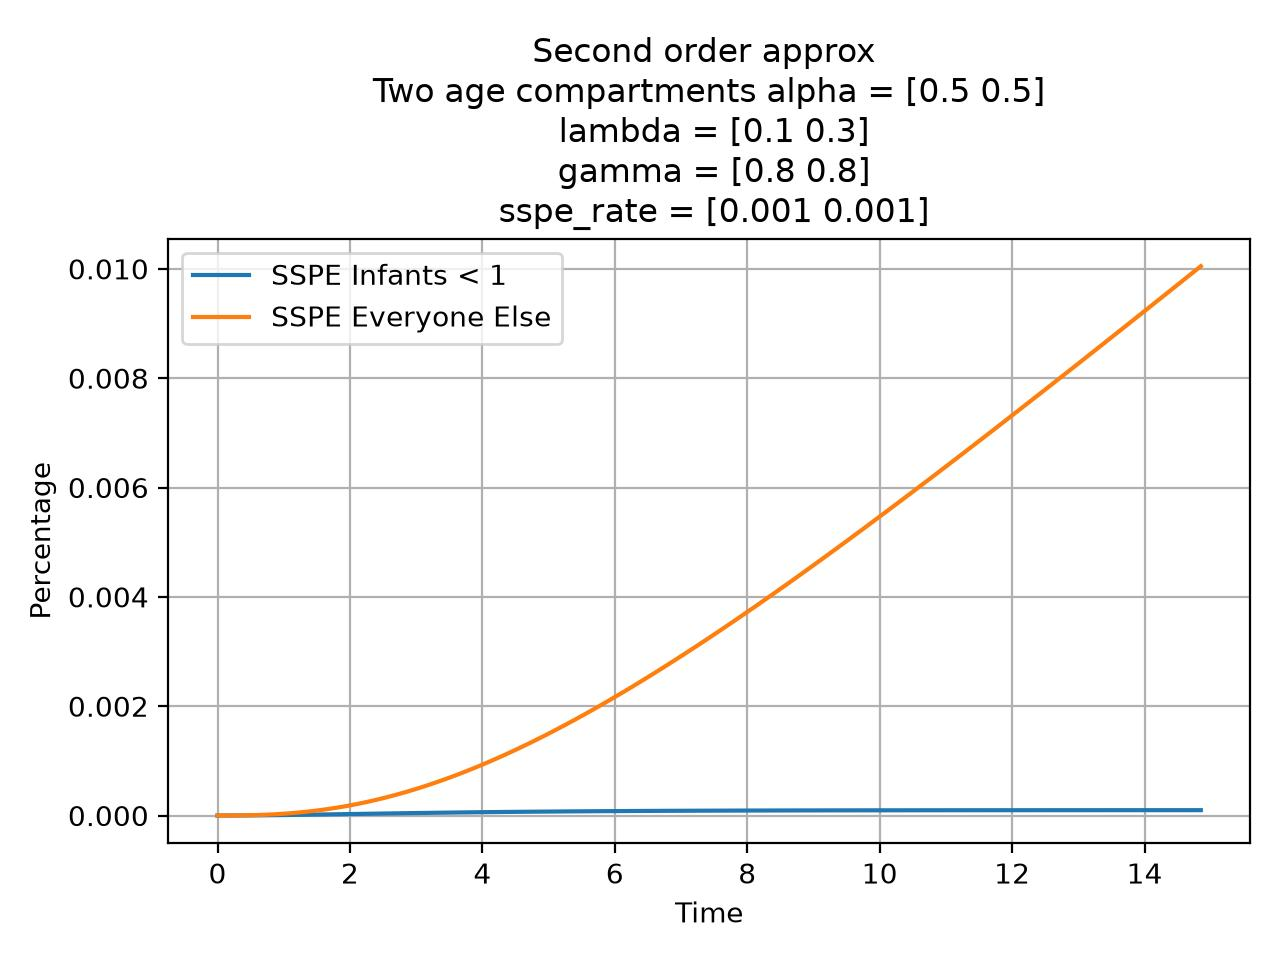
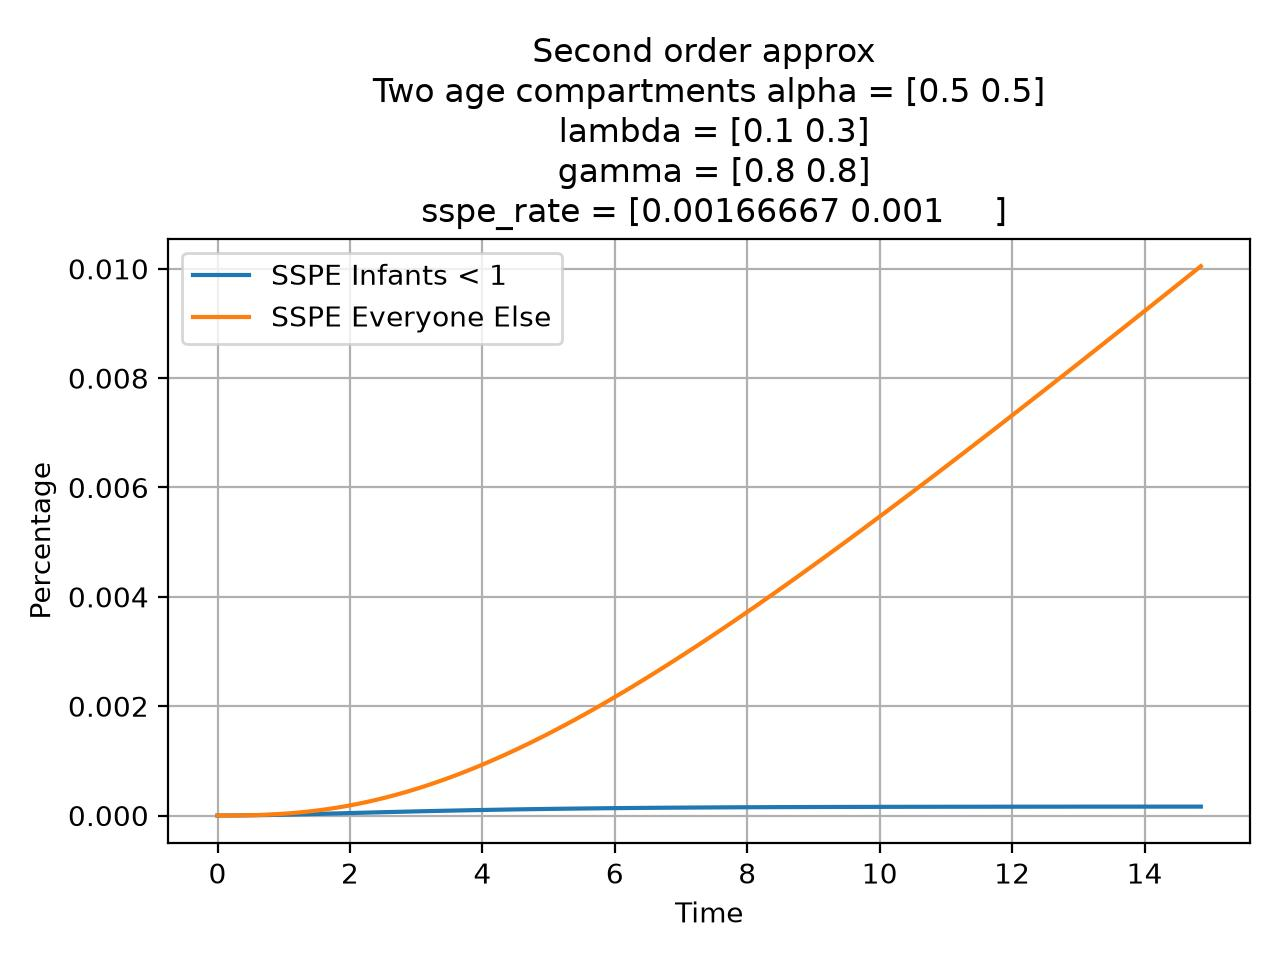
1/600 rate for infants

Changed region(s): [[0.25, 0.8125, 0.9375, 0.875], [0.3438, 0.1875, 0.75, 0.25]]

diff --git a/sspe_example.py b/sspe_example.py
@@ -50,7 +50,7 @@ def taylor_system_11(f,initial,alpha,lamb,gamma,p,t0,t1,n):
 alpha = 0.5*np.ones(2)
 lamb = np.array([0.1,0.3])
 gamma = np.array([0.8,0.8])
-p = np.array([0.001,0.001])
+p = np.array([1/600,0.001])
 initial_s = np.array([0.3,0.64])
 initial_i = np.array([0.03,0.03])
 initial_r = np.zeros(2)
@@ -77,7 +77,7 @@ plt.plot(t,B_1, label='SSPE Infants < 1')
 plt.plot(t,B_2, label='SSPE Everyone Else')
 plt.xlabel('Time')
 plt.ylabel('Percentage')
-plt.title(f"Second order approx \n Two age compartments alpha = {alpha} \n lambda = {lamb}\n gamma = {gamma}\n sspe_rate = {p}")
+plt.title(f"Second order approx \n Two age compartments alpha = {alpha} \n lambda = {lamb}\n gamma = {gamma}\n sspe_rate = {np.round(p,5)}")
 plt.grid()
 plt.legend()
 plt.tight_layout()
